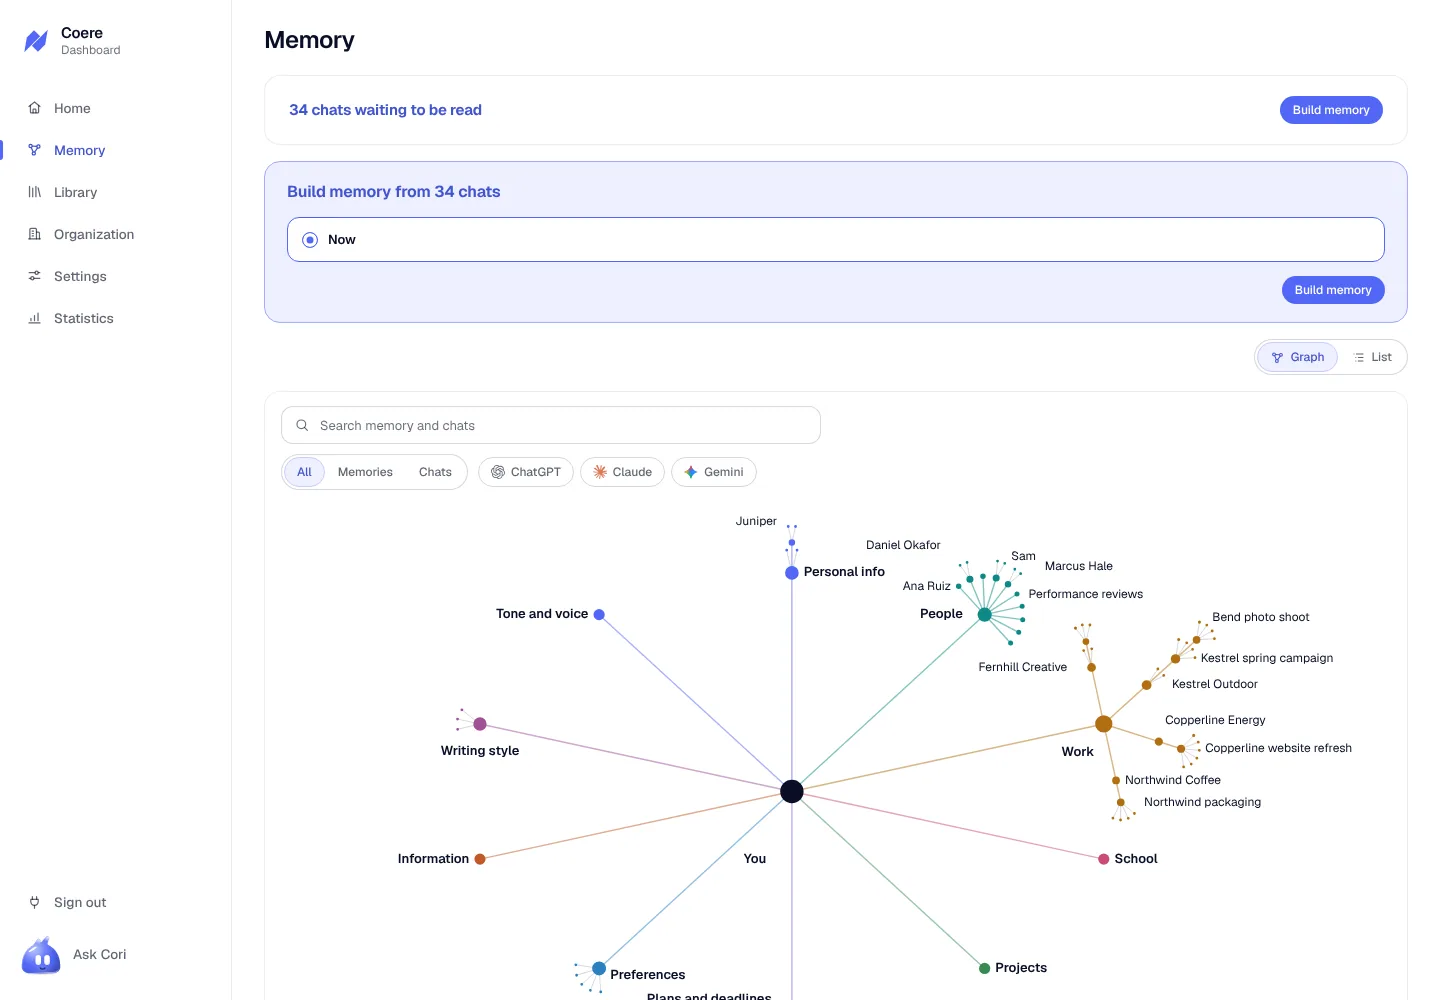
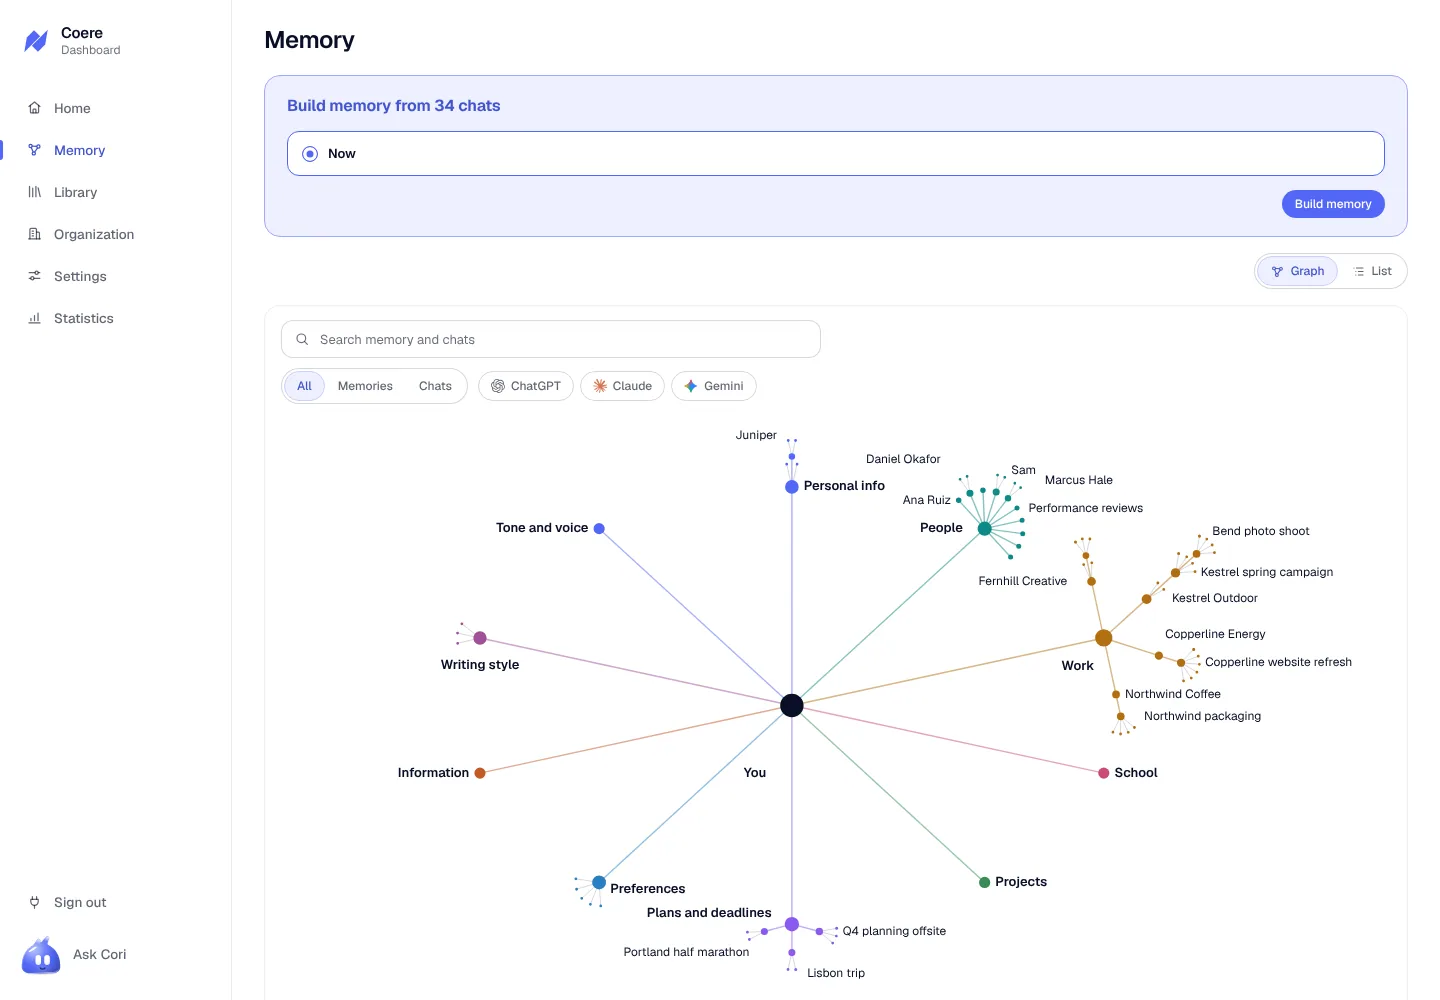
Fit the welcome picture to the page and retake it
The extension's live build view now shows the memories each AI added in a card, where a bare number sat before, and the Memory page shows one Build memory prompt. The welcome picture's window grows to the framed page's height, so the log at its foot is never cut.

Claude-Session: https://claude.ai/code/session_01Ur6uqNCXa3ecJ23BnM9D9o

diff --git a/docs/screenshots/dashboard/README.md b/docs/screenshots/dashboard/README.md
@@ -19,7 +19,7 @@ clients are made up for these pictures. Taken by
 
 | | |
 |---|---|
-| <img src="memory-graph.webp" alt="The Memory page's graph: You in the middle and Maya's sections around her, with Work holding Fernhill Creative, Kestrel Outdoor, Copperline Energy and Northwind Coffee and their projects" /><br /><sub>Memory: one graph around her, section by section</sub> | <img src="memory.webp" alt="The Memory page's top: 34 chats waiting to be read with Build memory, the Build memory card with Now, then the graph" /><br /><sub>Memory's top. Her memory came in a file, so the chats wait for a build of their own</sub> |
+| <img src="memory-graph.webp" alt="The Memory page's graph: You in the middle and Maya's sections around her, with Work holding Fernhill Creative, Kestrel Outdoor, Copperline Energy and Northwind Coffee and their projects" /><br /><sub>Memory: one graph around her, section by section</sub> | <img src="memory.webp" alt="The Memory page's top: the Build memory card for 34 chats with Now and Build memory, then the graph" /><br /><sub>Memory's top. Her memory came in a file, so the chats wait for a build of their own</sub> |
 | <img src="library.webp" alt="The Library: 34 chats in 2 projects, 50.6 KB, a search box, the AI filters and the list by date" /><br /><sub>The Library: every saved chat</sub> | <img src="library-chat.webp" alt="The Library with Bend shoot logistics open beside the list, its whole text under Download and Transfer" /><br /><sub>A chat open in the Library</sub> |
 | <img src="settings.webp" alt="Settings: Search, Cori agent and the start of the Account card" /><br /><sub>Settings</sub> | <img src="settings-account.webp" alt="The Account card: connected to coere.ai as maya_collins, admin of Fernhill Creative, the connected browser, the two backup switches, the memory copy and Delete account" /><br /><sub>The Account card: the account on coere.ai, browsers, backup and the memory copy</sub> |
 | <img src="organization-admin.webp" alt="Organization as an admin, from the shared memory graph down, with its root Fernhill Creative" /><br /><sub>Organization, as an admin, with the shared graph</sub> | <img src="organization-admin-members.webp" alt="The members list with Make admin, Make member and Remove, and the invite box" /><br /><sub>An admin's members list and invites</sub> |
@@ -36,7 +36,7 @@ has no Anthropic key, so what it finds comes from the fake's rules.
 
 | | |
 |---|---|
-| <img src="welcome.webp" alt="coere.ai/welcome framing the onboarding: Hi, I'm Cori, Which AI chats do you use, with ChatGPT, Claude and Gemini chosen, the search, Cori and voice switches, and Save" /><br /><sub>The onboarding's first step, framed by coere.ai</sub> | <img src="welcome-building.webp" alt="The memory build live on coere.ai/welcome: Building memories, the graph growing among her chats on the stage, the steps, Pause and Stop, Reading Lisbon trip in January from ChatGPT, and the log of what Coere just did" /><br /><sub>Her memory building live: the chat in work, the graph as it grows, the log, and Pause and Stop</sub> |
+| <img src="welcome.webp" alt="coere.ai/welcome framing the onboarding: Hi, I'm Cori, Which AI chats do you use, with ChatGPT, Claude and Gemini chosen, the search, Cori and voice switches, and Save" /><br /><sub>The onboarding's first step, framed by coere.ai</sub> | <img src="welcome-building.webp" alt="The memory build live on coere.ai/welcome: Building memories, the graph growing among her chats on the stage, the steps, Pause and Stop, Reading Lisbon trip in January from ChatGPT, the memories each AI added, each AI's row, and the log of what Coere just did" /><br /><sub>Her memory building live: the chat in work, the graph as it grows, the log, and Pause and Stop</sub> |
 
 For Organization as a member, the tool sets Maya's role to member in the
 local database, as an admin's Make member would, and back after.

diff --git a/README.md b/README.md
@@ -143,7 +143,7 @@ pictures: [the site](docs/screenshots/site/README.md),
       <sub>After Connect Coere, coere.ai/welcome frames the extension's own onboarding.</sub>
     </td>
     <td width="50%">
-      <img src="docs/screenshots/dashboard/welcome-building.webp" alt="The memory build live on coere.ai/welcome: Building memories, the graph growing among her chats on the stage, the steps, Pause and Stop, Reading Lisbon trip in January from ChatGPT, and the log of what Coere just did" />
+      <img src="docs/screenshots/dashboard/welcome-building.webp" alt="The memory build live on coere.ai/welcome: Building memories, the graph growing among her chats on the stage, the steps, Pause and Stop, Reading Lisbon trip in January from ChatGPT, the memories each AI added, each AI's row, and the log of what Coere just did" />
       <br />
       <sub>Her memory building live on coere.ai: the chat in work, the graph as it grows, and Pause and Stop.</sub>
     </td>
